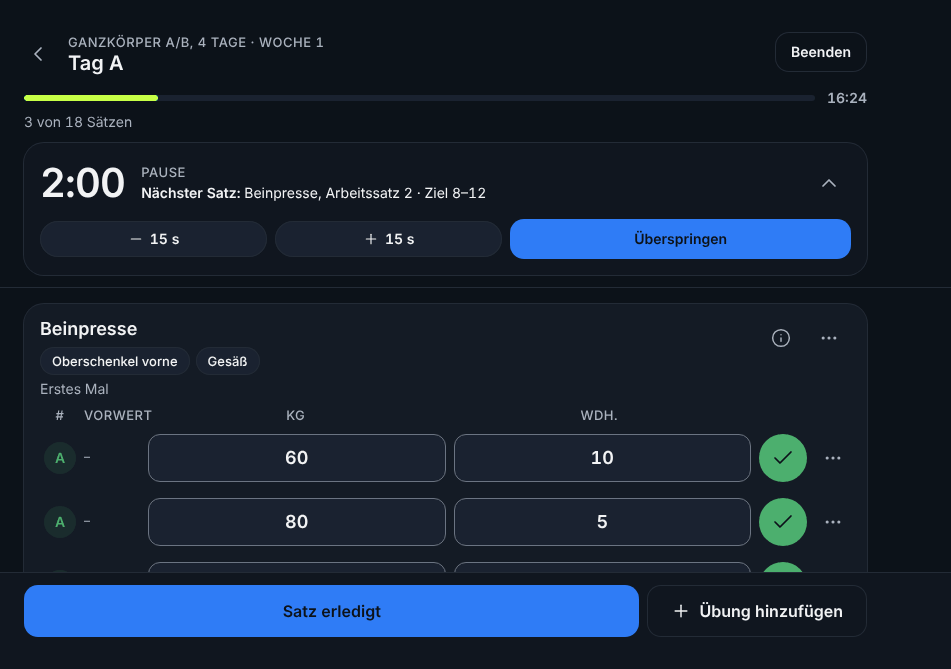
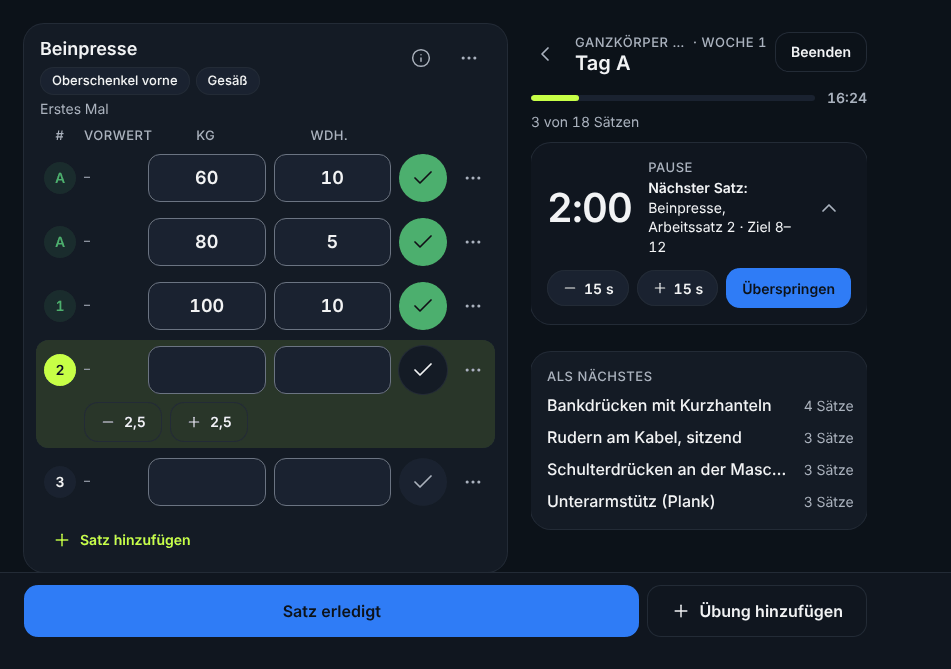
iPhone Duo: Abschluss Phase 2, Bilder, Gerätetest und Bericht (D-383)
Bilder in drei Breiten mit tools/duo-screens.mjs erneuert (84
Ansichten, Übersicht); Befunde wie nach Phase 1: Tageszahl im Kalender
10 px (bewusst, D-334), 7 Hinweise zu Wochentag-Chips, axe ohne
Verstöße. Beim Ansehen gefunden: In der rechten Spalte des Players
stand vom nächsten Satz nur „Beinpresse,…“; dort darf er jetzt bis zu
vier Zeilen haben.

Die Liste für den Gerätetest hat die Punkte 10 bis 15 dazu (Player
in beiden Zuständen, einzeilige Pause, Satzzeile, Ernährung,
Fortschritt). form-duo-report.md schließt mit dem Abschlussbericht
nach Kapitel 13 (Abschnitt 10). Nicht auf dem Gerät getestet.

Unit 1085 bestanden; E2E Chromium 371 bestanden, 0 rot; Startansicht
235,7 KB.

Claude-Session: https://claude.ai/code/session_012guqa2B3LtrhTwFQmUQwAZ

diff --git a/src/modules/training/ui/player/player-layout.css b/src/modules/training/ui/player/player-layout.css
@@ -82,6 +82,13 @@
     display: block;
     grid-area: next;
   }
+
+  /* In der schmalen Spalte stünde vom nächsten Satz neben der Zeit nur „Beinpresse,…“: Er darf
+     hier bis zu vier Zeilen haben, die Spalte hat die Höhe dafür. */
+  .player-side .rest-next-text {
+    -webkit-line-clamp: 4;
+    line-clamp: 4;
+  }
 }
 
 /*

diff --git a/form-duo-report.md b/form-duo-report.md
@@ -1,12 +1,14 @@
 # FORM · Bericht zur Phase iPhone Duo
 
-Stand: 25.10.2026 · Branch `form-duo`, Entwurfs-PR [darad11/fitness-app#52](https://github.com/darad11/fitness-app/pull/52) · Auftrag `docs/prompts/iphone-duo-FORM.md`, verbindliche Leitlinien `docs/prompts/iphone-duo-leitlinien-FORM.md` · Entscheidungen ab D-370
+Stand: 26.10.2026, Phase 2 abgeschlossen · Branch `form-duo`, Entwurfs-PR [darad11/fitness-app#52](https://github.com/darad11/fitness-app/pull/52) · Auftrag `docs/prompts/iphone-duo-FORM.md`, verbindliche Leitlinien `docs/prompts/iphone-duo-leitlinien-FORM.md` · Entscheidungen ab D-370
 
 Getestet wurde in Browser-Fenstern mit den Maßen des iPhone Duo (Chromium in dieser Umgebung, WebKit in GitHub Actions). Auf dem echten Gerät ist nichts getestet; was nur dort prüfbar ist, steht in der Liste für den Gerätetest.
 
 ## 1. Auftrag und Reihenfolge
 
 Phase 1: Gerätemaße recherchieren, alle Screens der Leitlinien (Kapitel 4) in drei Breiten prüfen, Fehler sofort beheben (Barcode-Scanner, Tab-Leiste, Verluste beim Auf- und Zuklappen, weitere Funde), Layout-Verbesserungen bewerten, dann stoppen. Phase 2 (Layouts) erst nach Freigabe. Vorher geprüft: CI-Lauf 40223344366 auf `main` (`dd27315`) mit allen vier Jobs grün (D-370).
+
+Phase 2, freigegeben am 26.10.2026: Workout-Player für beide Zustände, Ernährung aufgeklappt zweispaltig, Erklärung der Kalorien im Fortschritt (Abschnitt 9); danach die Bilder in drei Breiten erneuert, die Liste für deinen Gerätetest ergänzt (Abschnitt 6) und dieser Bericht abgeschlossen (Abschnitt 10, nach Kapitel 13 der Leitlinien). Die Tab-Leiste bleibt.
 
 ## 2. Gerät: Maße zugeklappt und aufgeklappt (D-371)
 
@@ -139,6 +141,8 @@ Gefunden bei der Prüfung aller Screens in drei Breiten (Bilder, Messungen und a
 | Einstellungen | `mehr`, `einstellungen` | in Ordnung |
 | Onboarding | `erster-start`, `anmeldung` | in Ordnung; „Später“ neben dem Systemrand (D-372) |
 
+Nach Phase 2: Player, Ernährung und Fortschritt sind umgestellt (Abschnitt 9); die Bilder in `docs/screens/duo/` zeigen den Stand nach Phase 2.
+
 ### 4.3 Ergebnis je Prüfpunkt (Kapitel 3 bis 9)
 
 - **Lesbarkeit:** Keine Schrift unter 11 px außer der Tageszahl im Kalender einer Tagesaufgabe: 10 px in einer 16-px-Markierung, so entschieden mit D-334; das Datum steht im Namen der Zelle. Wochentage jetzt 11 px (D-377), lange Werte im Training ganz lesbar (D-378).
@@ -155,6 +159,7 @@ Gefunden bei der Prüfung aller Screens in drei Breiten (Bilder, Messungen und a
 |---|---|---|
 | Erster Lauf, vor D-377 | 84 | 16 × axe `label-content-name-mismatch`, 27 × Schrift unter 11 px, 7 Hinweise Tippfläche; dazu aus den Bildern die Funde in Abschnitt 3.6 und 3.7 |
 | Nach D-377 und D-378 | 84 | 3 × Schrift unter 11 px (Tageszahl im Kalender, bewusst), 7 Hinweise Tippfläche (Wochentag-Chips, siehe 4.3); sonst nichts |
+| Nach Phase 2 (D-383) | 84 | wie nach D-378: 3 × Schrift unter 11 px (Tageszahl im Kalender, bewusst), 7 Hinweise Tippfläche; kein Überlauf, nichts unter dem Systemrand, keine Überlagerung, kein abgeschnittener Text, axe ohne Verstöße |
 
 ## 5. Bewertung der Layout-Verbesserungen (Kapitel 5, 7, 8 und 12)
 
@@ -195,19 +200,27 @@ Alles andere später oder gar nicht. Die schwebende Tab-Leiste bleibt; ob aufgek
 
 So würde ich es umsetzen (Kapitel 10): dieselben Komponenten, nur in CSS-Rastern angeordnet, an den vorhandenen Umbruchpunkten (48 rem). Nichts wird je nach Breite ein- oder ausgeblendet und neu aufgebaut; so bleibt beim Auf- und Zuklappen der Zustand erhalten. Player und Ernährung werden schon heute nachgeladen; die neuen Layouts kommen in diese Teile, die Startansicht bleibt bei 235,5 KB. Tests in den drei Breiten wie in Phase 1, Bilder neu.
 
+Umgesetzt in Phase 2 (Freigabe vom 26.10.2026: alle drei Pakete, ohne leeren Platzhalter für die Übungsdemonstration): Abschnitt 9.
+
 ## 6. Liste für deinen Gerätetest am iPhone Duo
 
-Am besten an der Vorschau des Branches (Vercel, Link im PR), als App vom Home-Bildschirm und einmal im Safari-Tab. Mit Testdaten, nicht mit echten Daten.
+Am besten an der Vorschau des Branches (Vercel, Link im PR: `fitness-app-git-form-duo-dr-b21f.vercel.app`), als App vom Home-Bildschirm und einmal im Safari-Tab. Mit Testdaten, nicht mit echten Daten. Punkte 10 bis 15 sind neu aus Phase 2.
 
 1. **Systemrand an der Seite (D-372):** Zugeklappt und aufgeklappt: Liegt etwas unter Statusleiste, Dynamic Island oder Kamera? Tab-Leiste, „Mehr“, der Kreis beim Scrollen, „Schließen“ in Blättern und im Scanner, Hinweise unten. Lässt sich „Mehr“ direkt neben dem Systemrand sicher tippen?
 2. **Tab-Leiste (D-373, D-376):** In beiden Zuständen runterscrollen (Kreis), hochscrollen (Leiste geht auf), die Linse über die Tabs ziehen, jeden Tab einmal tippen. Dann im Kreis-Zustand auf- und zuklappen und wieder hochscrollen: Steht die Auswahl unter dem aktiven Tab?
 3. **Auf- und Zuklappen im Training (D-375):** Training starten, einen Wert tippen, Satz erledigen (Pause läuft), Menü eines Satzes öffnen, dann auf- und zuklappen: Training, Wert, Satz, Menü und Pause bleiben, die Pause zählt richtig weiter. Lädt iOS die App beim Auf- oder Zuklappen neu? Wenn ja, bitte notieren.
 4. **Leseposition (D-375):** Auf „Heute“ und „Programme und Vorlagen“ in die Mitte scrollen, auf- und zuklappen: Bleibt derselbe Inhalt sichtbar?
 5. **Barcode-Scanner (D-374):** Zugeklappt und aufgeklappt, hoch und quer: Steht das Kamerabild aufrecht? Liegt der Rahmen mittig im Bild? Wird ein Code im Rahmen erkannt, einer außerhalb nicht?
-6. **Training zugeklappt (D-377, D-378):** Zeigen die Chips „− 15 s“ und „+ 15 s“ beide Zeichen? Steht „102,5“ ganz im Feld für kg?
+6. **Training zugeklappt (D-377, D-378):** Zeigen die Chips „− 15 s“ und „+ 15 s“ beide Zeichen (seit D-380 zugeklappt in der großen Pause)? Steht „102,5“ ganz im Feld für kg?
 7. **„Meine Küche“ aufgeklappt (D-377):** Ist das Menü ganz zu sehen, nichts unter der Tab-Leiste?
 8. **Halb aufgeklappt:** Was zeigt FORM, wenn das Gerät nur halb geöffnet ist (Falz)? Web-Apps erfahren davon nichts; bitte ein Foto, falls etwas über den Falz läuft.
 9. **Bildschirm im Training aktiv halten:** Bleibt der Bildschirm im Training an, auch nach dem Auf- und Zuklappen?
+10. **Player aufgeklappt (D-380, D-383):** Training starten, einen Satz erledigen, aufklappen: Stehen links die Sätze, rechts der Kopf mit Pause (±15 s) und darunter „Als Nächstes“? Ist der nächste Satz in der Pause ganz zu lesen? Ohne Pause: Steht rechts die Karte „Jetzt“? Bleibt die rechte Spalte beim Scrollen der Sätze stehen? Nach jedem „Satz erledigt“: Ist der nächste Satz links ganz zu sehen?
+11. **Auf- und Zuklappen mit gescrolltem Satz (D-380):** Aufgeklappt in der Satzliste nach unten scrollen, bis der aktuelle Satz oben steht, dann zuklappen: Steht der Satz unter dem Kopf, nicht dahinter? Wert, Pause und Menü bleiben wie in Punkt 3.
+12. **Pause zugeklappt (D-380):** Ist die Pause eine Zeile mit Zeit, nächstem Satz (zwei kurze Zeilen), Pfeil und „Überspringen“? Ist der nächste Satz lesbar? Öffnet der Pfeil die große Pause mit ±15 s? Einmal im Safari-Tab: Dort steht der nächste Satz nicht in der Zeile, weil sie schmaler ist; stört das?
+13. **Satzzeile in Safari zugeklappt und auf kleinen iPhones (D-380):** Steht der Vorwert in einer zweiten Zeile mit „Vorwert:“ davor? Passen „102,5“ und die Wiederholungen ganz ins Feld?
+14. **Ernährung aufgeklappt (D-381):** Links Ring, Makros und weitere Nährwerte, rechts die Mahlzeiten und das Wasser; Frühstück mit „Hinzufügen“ ohne Scrollen zu sehen? Weitere Nährwerte aufklappen, zuklappen: Bleiben sie offen, stehen die Mahlzeiten wieder unter dem Ring? „Meine Küche“ unten links antippen: Ist das Menü ganz zu sehen (bei wenig Platz öffnet es nach oben)?
+15. **Fortschritt (D-382):** Sind die vier Kacheln zugeklappt und aufgeklappt gleich hoch, stehen die Zahlen auf einer Linie, steht die Erklärung der Kalorien darunter?
 
 ## 7. Geänderte Dateien in Phase 1
 
@@ -226,13 +239,13 @@ Am besten an der Vorschau des Branches (Vercel, Link im PR), als App vom Home-Bi
 
 ## 9. Phase 2: Layouts (D-380 bis D-382)
 
-Freigegeben am 26.10.2026: alle drei Pakete wie empfohlen, ohne leeren Platzhalter für die Übungsdemonstration; die Tab-Leiste bleibt. Umgesetzt nach Kapitel 10 der Leitlinien: dieselben Komponenten, nur anders angeordnet, an der Breite des Inhalts (48 rem) statt an der Haltung des Geräts. Die neuen Anordnungen werden mit dem Player und der Ernährung nachgeladen; die Startansicht bleibt bei 235,6 KB. Beim Auf- und Zuklappen wird nichts neu aufgebaut.
+Freigegeben am 26.10.2026: alle drei Pakete wie empfohlen, ohne leeren Platzhalter für die Übungsdemonstration; die Tab-Leiste bleibt. Umgesetzt nach Kapitel 10 der Leitlinien: dieselben Komponenten, nur anders angeordnet, an der Breite des Inhalts (48 rem) statt an der Haltung des Geräts. Die neuen Anordnungen werden mit dem Player und der Ernährung nachgeladen; die Startansicht steht bei 235,7 KB (vorher 235,5 KB). Beim Auf- und Zuklappen wird nichts neu aufgebaut.
 
 ### 9.1 Workout-Player (D-380)
 
 | Zustand | Vorher (Messung D-379) | Jetzt |
 |---|---|---|
-| Aufgeklappt (Inhalt ab 48 rem breit: Duo aufgeklappt, iPad quer, Desktop) | eine Spalte; Kopf mit Pause 264 pt über der Liste, für Übung und Sätze 284 pt, eine Satzzeile ganz zu sehen, Felder 298 pt breit | zwei Spalten: links die Übungen mit den Sätzen, rechts mitlaufend der Kopf mit Trainingstag, Fortschritt und Pause (mit ±15 s), darunter „Jetzt“ mit dem nächsten Satz und „Als Nächstes“ mit bis zu vier folgenden Übungen und ihren offenen Sätzen. Für Übung und Sätze 572 pt, fünf Satzzeilen ganz zu sehen, Felder 118 pt |
+| Aufgeklappt (Inhalt ab 48 rem breit: Duo aufgeklappt, iPad quer, Desktop) | eine Spalte; Kopf mit Pause 264 pt über der Liste, für Übung und Sätze 284 pt, eine Satzzeile ganz zu sehen, Felder 298 pt breit | zwei Spalten: links die Übungen mit den Sätzen, rechts mitlaufend der Kopf mit Trainingstag, Fortschritt und Pause (mit ±15 s und dem nächsten Satz), ohne Pause darunter „Jetzt“ mit dem nächsten Satz, dann „Als Nächstes“ mit bis zu vier folgenden Übungen und ihren offenen Sätzen. Für Übung und Sätze 572 pt, fünf Satzzeilen ganz zu sehen, Felder 118 pt |
 | Zugeklappt (eine Spalte, Fenster unter 45 rem hoch: Duo zugeklappt, iPhone quer, iPhone hoch in Safari) | Pause als Karte mit ±15 s; Kopf 274 pt, für Übung und Sätze 269 pt, eine Satzzeile | Pause in einer Zeile: Zeit, nächster Satz in bis zu zwei Textzeilen, Taste für die große Pause, „Überspringen“; ±15 s in der großen Pause. Kopf 192 pt, für Übung und Sätze 351 pt, zwei Satzzeilen |
 | Zwischenmaß (669 × 951) und iPhone hoch | – | unverändert |
 | Satzzeile schmaler als 20 rem (Fenster unter 384 pt: Safari zugeklappt mit 382 pt, iPhone SE und mini) | bei 382 und 375 pt passte „102,5“ nur knapp, je nach Schriftart nicht ganz; bei 360 pt ragte es 7 px aus dem Feld, bei 320 pt waren die Felder 25 px breit | der Vorwert steht in einer zweiten Zeile unter den Feldern, mit sichtbarem Namen „Vorwert:“; die Felder sind bei 382 pt 83 px, bei 375 pt 80 px, bei 360 pt 72 px und bei 320 pt 52 px breit. Damit ist auch der offene Punkt zur Schriftart aus Abschnitt 3.7 erledigt |
@@ -246,6 +259,7 @@ Gemessen in Chromium mit laufendem Training und Pause, Seite ganz oben; in einer
 - **Unterwegs gefunden und behoben:** Aufgeklappt den aktuellen Satz nach oben gescrollt, dann zugeklappt: Der Kopf stand wieder über der Liste und verdeckte den Satz. Jetzt rückt der Satz nach jeder Größenänderung wieder ins Bild, wenn er vorher zu sehen war.
 - **Nachtrag nach der CI:** Die einzeilige Pause gilt bei jedem niedrigen Fenster, auch am iPhone hoch in Safari (das Testprofil iPhone 15 hat 393 × 659 pt). WebKit fand drei Tests, die das nicht berücksichtigten; sie tippen ±15 s jetzt in der großen Pause. Dabei zeigte sich: Wird der Kopf beim Wechsel zwischen zugeklappt und Zwischenmaß 72 pt höher oder niedriger, sprang der Satz bis zum nächsten Takt der Pause (bis 250 ms). Jetzt bleibt er schon im ersten Bild an seiner Stelle, auch wenn sich nur der sichere Bereich ändert.
 - **Tests:** `e2e/duo-player.spec.ts`, 3 Tests (Handy-Profil, Chromium und WebKit): zwei Spalten mit axe ohne Verstöße und der Satz nach jedem „Satz erledigt“ ganz sichtbar; einzeilige Pause; Satzzeile bei 390, 360 und 320 pt. Am alten Stand 3 von 3 fehlgeschlagen („Als Nächstes“ fehlt; Pause 142 px statt höchstens 80; Vorwert bei 360 pt in derselben Zeile). Gegenproben für den Satz hinter dem Kopf und für die zweite Textzeile der Pause: beide fehlgeschlagen ohne die Korrektur. Angepasst: `duo-resize.spec.ts` (aufgeklappt rückt der Satz um die Höhe des Kopfs nach oben und bleibt sichtbar) und der Test zu D-377 (±15 s bei 320 × 800, weil die Pause bei 320 × 640 einzeilig ist).
+- **Beim Abschluss (D-383):** In der rechten Spalte stand vom nächsten Satz neben der großen Zeit nur „Beinpresse,…“. Dort darf er jetzt bis zu vier Zeilen haben („Nächster Satz: Beinpresse, Arbeitssatz 2 · Ziel 8–12“).
 - **Nur am Gerät prüfbar:** wie sich die mitlaufende rechte Spalte beim Scrollen anfühlt; ob die einzeilige Pause zugeklappt gut lesbar ist.
 
 ### 9.2 Ernährung (D-381)
@@ -275,3 +289,70 @@ Gemessen in Chromium mit Tagesziel, zwei Schnelleinträgen und Wasser, Seite gan
 - **Texte:** Die Methode steht unverändert da („Schätzung nach MET: …“). Die beiden kurzen Hinweise stehen jetzt unter allen Kacheln und nennen deshalb „Kalorien“ im Satz: „Kalorien werden erst mit Körpergewicht geschätzt.“ und „1 Training ohne Kalorien-Schätzung (kein Körpergewicht).“ Gibt es Trainings ohne Schätzung, steht jetzt beides da, der Hinweis und die Methode.
 - **Kacheln:** Alle Reihen sind gleich hoch, das Label steht oben, die Zahl unten. So stehen die Zahlen auf einer Linie, auch wenn „Kalorien (Schätzung)“ zweizeilig umbricht. Die gemeinsame Kachel (`StatTile`) bleibt unverändert; die Klassen kommen von der Seite.
 - **Tests:** `e2e/duo-progress.spec.ts`, 1 Test (Handy-Profil, Chromium und WebKit): in den drei Breiten gleich hohe Kacheln, Zahlen auf einer Linie, Erklärung unter und nicht in den Kacheln; am alten Stand fehlgeschlagen (155 px Unterschied). Dazu `progress-ui.test.tsx`.
+
+## 10. Abschlussbericht nach Kapitel 13 der Leitlinien
+
+Getestet wurde in Browser-Fenstern mit den Maßen des iPhone Duo, nicht auf dem Gerät. Was nur dort prüfbar ist, steht in der Liste für deinen Gerätetest (Abschnitt 6).
+
+### 10.1 Analysierte Screens und Komponenten
+
+- **Screens:** alle aus Kapitel 4 der Leitlinien, 28 Ansichten in den drei Prüfmaßen (Abschnitt 4.2); dazu Safari zugeklappt (382 × 640), zugeklappt quer (594 × 368), iPhone SE (320 × 568), iPhone 15 in Safari (393 × 659) und für die Satzzeile 320 bis 430 pt.
+- **Komponenten:** schwebende Tab-Leiste mit Linse und Kreis, Blätter, Rückfragen, Hinweise, „Meine Küche“, Barcode-Scanner, Kopf, Pause und Satzzeile im Player, Ring und Makros der Ernährung, Kennzahl-Kacheln, Kalender und Diagramme, Leseposition beim Größenwechsel.
+
+### 10.2 Gefundene Layoutprobleme
+
+- **Fehler (behoben in Phase 1):** Bedienelemente unter dem Systemrand an der Seite (D-372); Tab-Leiste nach Größenänderung und Linse (D-373, D-376); Scanner erkannte außerhalb des Rahmens, quer lag das Bild außerhalb (D-374); Leseposition verrutschte beim Auf- und Zuklappen (D-375); Kopf im Training, Auswahl der Mahlzeit, „Meine Küche“, Namen für Screenreader, ±15 s, Wochentage (D-377); lange Werte in der Satzzeile (D-378).
+- **Fläche (behoben in Phase 2):** Im Player war aufgeklappt und zugeklappt nur eine Satzzeile ganz zu sehen; in der Ernährung begann die erste Mahlzeit aufgeklappt hinter der Tab-Leiste; im Fortschritt war die Kachel „Kalorien“ doppelt so hoch wie die anderen; bei 360 und 320 pt waren die Felder der Satzzeile zu schmal.
+- **Unterwegs in Phase 2 (behoben):** Satz nach Aufklappen, Scrollen und Zuklappen hinter dem Kopf; nächster Satz in der einzeiligen Pause nur als „Beinpress…“; Satz sprang beim Wechsel der Pause zwischen Zeile und Karte bis zum nächsten Takt; „Meine Küche“ aufgeklappt unter der Tab-Leiste, wenn die Seite darunter zu kurz war (D-380, D-381).
+
+### 10.3 Implementierte responsive Layouts: Verhalten schmal und breit
+
+| Screen | Zugeklappt (schmal, 466 × 678) | Zwischenmaß (669 × 951) | Aufgeklappt (breit, 951 × 669) |
+|---|---|---|---|
+| Workout-Player | eine Spalte; Pause in einer Zeile mit Zeit, nächstem Satz und „Überspringen“, ±15 s in der großen Pause | eine Spalte wie bisher, Pause als Karte mit ±15 s | zwei Spalten: links Übungen und Sätze, rechts mitlaufend Kopf mit Pause und nächstem Satz (ohne Pause: „Jetzt“) und „Als Nächstes“; Platz für die Übungsdemonstration im Raster vorbereitet |
+| Satzzeile | eine Zeile (als App; in Safari mit 382 pt zweite Zeile für den Vorwert) | eine Zeile | eine Zeile |
+| Ernährung | eine Spalte wie bisher | eine Spalte wie bisher | zwei Spalten: links Ring, Makros, weitere Nährwerte, „Ziel“ und „Meine Küche“; rechts Mahlzeiten und Wasser |
+| Fortschritt | vier gleich hohe Kacheln (2 × 2), Erklärung der Kalorien darunter | wie zugeklappt | vier Kacheln nebeneinander, Erklärung darunter |
+| Alle übrigen Screens | unverändert (Bewertung „später“ oder „unnötig“, Abschnitt 5) | | |
+| Navigation | schwebende Tab-Leiste, neben dem Systemrand | Tab-Leiste | Tab-Leiste (unverändert, nach deiner Vorgabe) |
+
+Umbruchpunkte: zwei Spalten ab 48 rem Breite des Inhalts (Container-Abfragen, so zählt der Systemrand mit); einzeilige Pause bei Fenstern unter 45 rem Höhe; zweite Zeile der Satzzeile unter 20 rem Zeilenbreite; nächster Satz in der Pause erst ab 22 rem Breite des Players. Beim Auf- und Zuklappen wird nichts neu aufgebaut: Werte, Menüs, Dialoge, Pause und die Lage des aktuellen Satzes bleiben.
+
+### 10.4 Tatsächlich ausgeführte Tests
+
+- **Unit-Tests:** `pnpm test` nach jedem Paket 124 Dateien, 1085 Tests bestanden.
+- **E2E in Chromium, alle Dateien (diese Umgebung):** Paket 1: 368 bestanden, 82 übersprungen, 0 fehlgeschlagen (zweimal); Nachtrag zu D-380 und Paket 2: 370, 84, 0; Paket 3: 371, 85, 0; Abschluss: 371, 85, 0.
+- **Im Fenster des iPhone 15 (393 × 659, in Chromium nachgestellt):** ganze Suite 204 bestanden, 22 übersprungen, 1 fehlgeschlagen; der eine Test wählt Handy oder Desktop nach dem Namen des Projekts, mit passendem Namen bestanden.
+- **CI in GitHub Actions (Chromium und WebKit):** Paket 1 (Lauf 40283966090) in WebKit 3 fehlgeschlagen: die einzeilige Pause im Profil iPhone 15 und eine Prüfung, die vom Scrollen abhing; behoben im Nachtrag zu D-380. Danach grün: Lauf 40292622372 (Paket 2, WebKit 350 bestanden) und Lauf 40295195644 (Paket 3, Chromium 371, WebKit 351 bestanden). Die CI zum Abschluss-Commit steht im PR.
+- **Neue Tests in Phase 2:** `e2e/duo-player.spec.ts` (3), `duo-nutrition.spec.ts` (2), `duo-progress.spec.ts` (1); angepasst `duo-resize`, `duo-funde`, `session`, `resilience` und `progress-ui.test.tsx`. Jede neue Prüfung schlug am alten Stand fehl (Gegenproben in `docs/testing.md`).
+- **Wiederholungen gegen Wackeln:** `duo-player` und `duo-resize` je fünfmal: 30 von 30 bestanden; `duo-nutrition`, `duo-funde` und `nutrition` je viermal: 60 von 60.
+- **Prüfung aller Screens:** `tools/duo-screens.mjs`, 84 Ansichten in drei Breiten, Befunde wie nach Phase 1 (Abschnitt 4.4), axe ohne Verstöße.
+- **Startansicht:** 235,7 KB von 250 KB (vor Phase 2: 235,5 KB). Die neuen Anordnungen werden mit Player und Ernährung nachgeladen.
+- **Nicht getestet:** auf dem echten iPhone Duo. Dafür die Liste in Abschnitt 6.
+
+### 10.5 Behobene Probleme
+
+Abschnitt 3 (Phase 1, D-372 bis D-378) und Abschnitt 9 (Phase 2, D-380 bis D-382). Jeder behobene Fehler hat einen Test, der am alten Stand fehlschlägt; die Gegenproben stehen bei den Abschnitten und in `docs/testing.md`.
+
+### 10.6 Geänderte Dateien in Phase 2
+
+- **App:** neu `src/modules/training/ui/player/player-layout.css` und `src/modules/nutrition/ui/nutrition-layout.css`; geändert im Player `SessionPage.tsx`, `RestStage.tsx`, `SetRow.tsx`, `useStableSetView.ts`; in der Ernährung `NutritionPage.tsx`, `KitchenMenu.tsx`; im Fortschritt `ProgressPage.tsx`; Texte in `de-session.ts` und `de-training-pages.ts`.
+- **Tests:** neu `e2e/duo-player.spec.ts`, `duo-nutrition.spec.ts`, `duo-progress.spec.ts`; angepasst `duo-resize`, `duo-funde`, `session`, `resilience`, `src/modules/progress/ui/progress-ui.test.tsx`.
+- **Bilder:** `docs/screens/duo/` mit Übersicht und Befunden.
+- **Dokumente:** `docs/decisions.md` (D-380 bis D-383), `docs/testing.md`, `docs/implementation-plan.md`, `docs/feature-inventory.md` mit CSV, `docs/known-limitations.md`, dieser Bericht.
+
+### 10.7 Bestehende Einschränkungen
+
+- Nicht auf dem echten Gerät getestet; die Prüfmaße stammen teils von Dritten, der Systemrand von 84 pt ist eine Annahme (Abschnitt 2).
+- Den sicheren Bereich und die Kamera stellt nur Chromium nach; WebKit prüft dieselben Abläufe ohne Systemrand.
+- Ob das Duo auf-, zu- oder halb aufgeklappt ist, erfährt eine Web-App nicht; FORM richtet sich nach der Fenstergröße. Was über den Falz läuft, ist nicht geprüft.
+- Ob iOS die App beim Auf- und Zuklappen neu lädt, ist offen.
+- Einzeilige Pause: ±15 s sind einen Tipp weiter; in Safari zugeklappt und am iPhone SE oder mini steht der nächste Satz nicht in der Zeile (`docs/known-limitations.md`).
+- Aufgeklappt liegt die schwebende Tab-Leiste über rund 80 pt Inhalt; die Navigation bleibt nach deiner Vorgabe.
+- Tageszahl im Kalender einer Tagesaufgabe 10 px (bewusst, D-334).
+
+### 10.8 Empfohlene Verbesserungen
+
+- **Übungsdemonstration:** Sobald es Bilder oder Videos gibt, in den vorbereiteten Bereich „demo“ der rechten Spalte im Player; zugeklappt über die Karte „Jetzt“ oder die große Pause.
+- **Nach deinem Gerätetest:** ob aufgeklappt eine Seitenleiste statt der Tab-Leiste besser ist (Abschnitt 5).
+- **Später (Abschnitt 5):** Fortschritt aufgeklappt mit Körpergewicht und Bestleistungen neben den Kennzahlen; Programme als Liste mit Details; Programm-Details und Tagesaufgaben zweispaltig; größere Kalenderzellen aufgeklappt.

diff --git a/docs/implementation-plan.md b/docs/implementation-plan.md
@@ -280,4 +280,4 @@ Nächste Schritte: <Liste>
 66. Abgeschlossen, Merge nach Freigabe vom 24.10.2026 (Branch `form-stabilitaet`, PR #50, Auftrag `prompts/stabilitaet-FORM.md`): Phase Stabilität. Abschnitt 1 erledigt: zuverlässiger Start nach Updates und ohne Netz, Ursache des Offline-Tests, Startwächter, einmal neu laden, Update-Strategie (E-16, D-343); Nachtrag nach der CI: drei Befunde in WebKit behoben. Abschnitt 2 erledigt: Ursachen der wackelnden Tests behoben (Linse, Wasser-Schalter, Seitenende), E2E-Jobs im Image von Playwright, Wiederholung auf Abruf (D-344); Nachträge nach der Wiederholung in der CI: Seitenende auf `/ernaehrung` behoben; Startwächter in WebKit behoben (index.html lädt keine Module mehr vor). Abschnitt 3 erledigt: Wiederherstellen aus dem Export mit Prüfung, Zusammenfassung, doppelter Bestätigung, Sicherung vorher und Regeln für die Synchronisierung (A-14, D-345); Zusammenführen (AK-DAT-03) bleibt offen. Abschnitt 4 erledigt: weitere P2-Befunde nach Priorität und B-07 (D-346); offen mit Grund A-03 Rest, A-06, C-04 Rest, E-03 Rest, B-02 nach D-297. Abschnitt 5 erledigt: Startansicht 234,3 KB statt 239,5 KB durch getrennte Textkataloge (D-347). Abschnitt 6 erledigt: alle Prüfungen, vorübergehende Gegenprobe entfernt, Unterlagen nachgezogen (D-348); jeder früher wackelnde Test bestand in der CI 20-mal in Chromium und WebKit. Nachtrag nach Freigabe (24.10.2026): A-05 erledigt, Sperre je Konto in `push_documents` auf dem Server, SQL des Servers in `supabase/migrations/`, Test `pnpm test:db` und CI-Job „Datenbank“ (D-349); neu gefunden A-15 (Rechte). Nachtrag 2 nach Freigabe (24.10.2026): A-15 erledigt, `authenticated` nur SELECT, INSERT, UPDATE und USAGE an der Sequenz, `anon` ohne Rechte an der Sequenz (D-350). Dazu der wackelnde Test `switches.spec.ts:340` behoben: Er wartet nach dem ersten Gewicht, bis `/fortschritt/gewicht` neu gezeichnet ist (D-351). Bericht: `form-stabilitaet-report.md`, offene Punkte mit Grund in Abschnitt 7, A-05 in Abschnitt 8, A-15 in Abschnitt 9, Testfix in Abschnitt 10. Gerätetests am 24.10.2026 bestanden: Update (T-IPH-M0 Schritt 4) und Wiederherstellen (Abschnitt 11). Sicherungsdateien heißen `form-sicherung-…`, alte Namen lassen sich weiter wiederherstellen (D-352, Abschnitt 12).
 67. Abgeschlossen, Merge nach Freigabe vom 25.10.2026 (Branch `form-ernaehrung`, PR #51, normaler Merge `dd27315`, D-353): Phase Ernährung nach dem Gesamtauftrag vom 24.10.2026 (`prompts/ernaehrung-FORM.md`; er ersetzt den ersten Auftrag, der in `444d7f1` steht). Abschnitt 0 erledigt: Stand geprüft, lokal angefangener Einbau (BLS per Filter, USDA-Stückgewichte) zurückgenommen, Ursachenanalyse und BLS-Rohdaten behalten (D-355). Abschnitt 1 erledigt: Ursache der fehlenden Treffer belegt (D-354), Suche für jede Datenquelle mit Umlautschreibweisen, Einzahl/Mehrzahl, Synonymen in beide Richtungen, Rang nach Stellung im Namen, lose vor Marke und ohne Dubletten (D-356); Nachtrag: ganzes Wort vor Grundwort, drei Scheintreffer weniger (D-357). Abschnitt 2 erledigt: Auswahlliste `docs/lebensmittel-auswahl.csv` mit 345 Grundnahrungsmitteln aus dem BLS 4.0 und 9 fehlenden, EU-Rechenregeln geprüft, Lizenzen in `docs/licenses-data.md`, wartet auf Freigabe (D-358). Abschnitt 3 erledigt: Salz, Zucker, gesättigte Fettsäuren und Ballaststoffe als Ist und Tagesreferenz mit Quelle, fehlende Angaben nicht als 0 (D-359, Punkt 58). Abschnitt 4 erledigt: Wischen nach links löscht einen Artikel der Einkaufsliste mit Rückgängig (D-360, Punkt 64). Liste am 25.10.2026 freigegeben und nach den Entscheidungen 1 bis 8 ergänzt: 366 Zeilen, 13 neue Einträge, drei USDA-Lücken, Regel für abgeleitete 0-g-Werte, Spalten Einheit, Hinweis und abgeleitete Werte (D-361). Abschnitt 6 erledigt: Grundauswahl mit 361 Lebensmitteln nachgeladen und offline, Suche schon beim Tippen, Menge in g oder Stück, Stückgewicht einmal angeben und gemerkt, Quelle je Eintrag, Lizenzliste unter „Über die App“ (D-362, Punkt 59). Abschluss nach `prompts/ernaehrung-abschluss-FORM.md` (25.10.2026; ersetzt alle offenen Ernährungs-Anweisungen): §1 erledigt, „Weitere Nährwerte“ kompakt als „Ist / Referenz g“ mit Info-Blatt (D-363). §2 erledigt: Nährwerttabelle im Lebensmittel-Blatt einzeilig in festen Spalten, zweite Spalte nur bei einer Menge ungleich 100 g (D-364). §3 erledigt: 47 Richtwerte je Stück aus europäischen Quellen, „1 Stück · ca. … g“ vorgewählt, Plus und Minus in halben Stück, „Gewicht anpassen“ gemerkt und zurücksetzbar, ohne Richtwert nur Gramm; die einmalige Frage entfällt (D-365). §4 erledigt: Ohne eigenen Wortlaut bleibt die Zitierweise des BLS mit DOI, die Quellenzeile bricht nicht mehr zwischen Zahl und Prozentzeichen um (D-366). §5 erledigt: Nachweise je Prüfpunkt, fünf Bilder, Übersicht und Zip neu (D-367). Richtwerte am 25.10.2026 freigegeben, Avocado auf 145 g (DTU, Sorte Hass); Medjool-Datteln ohne europäische Quelle nicht aufgenommen (D-368). Referenz für Zucker und gesättigte Fettsäuren aus 10 % der Kalorien des Tagesziels, ohne Ziel 50 und 22 g, mit Erklärung im Info-Blatt (D-369). Wartet auf Freigabe und Merge. Bericht: `form-ernaehrung-report.md`.
 68. Später, eigene Sitzung (Wunsch des Produktinhabers vom 25.10.2026, D-369): freien Zucker näherungsweise über die Lebensmittelgruppen schätzen (Zucker, Honig, Süßes, Säfte) und die Zucker-Referenz (10 % der Kalorien aus dem Tagesziel) nur darauf beziehen. Bis dahin zählt die App jeden Zucker, auch aus Obst und Milch, und nennt den Wert im Info-Blatt eine strenge Orientierung.
-69. In Arbeit, Phase 2 (Branch `form-duo`, Entwurfs-PR #52, D-370): Phase iPhone Duo nach dem Auftrag vom 25.10.2026 (`prompts/iphone-duo-FORM.md`; verbindliche Leitlinien `prompts/iphone-duo-leitlinien-FORM.md`, sie ersetzen Kapitel 12 aus `prompts/audit-FORM.md`). Phase 1: Gerätemaße recherchieren, alle Screens der Leitlinien in drei Breiten prüfen (mit Übersichtsbild), Fehler beheben (Barcode-Scanner, Tab-Leiste, Verluste beim Auf- und Zuklappen, weitere Funde), Layout-Verbesserungen bewerten, dann stoppen. Phase 2 (freigegebene Layouts, nachgeladen, Startansicht unter 250 KB) erst nach Freigabe des Produktinhabers. Punkt 1 erledigt: Gerätemaße recherchiert, Prüfmaße als Annahmen in `e2e/duo.ts` (D-371). Fehler behoben: feste Elemente (Tab-Leiste, Blätter, Rückfragen, Hinweise) unter dem Systemrand an der Seite (D-372). Tab-Leiste misst nach jeder Größenänderung neu: Auswahl nach Auf- und Zuklappen im Kreis, Linse nach Tipp beim Aufgehen (D-373, Audit E-15). Barcode-Scanner: Erkennung nur im sichtbaren Ausschnitt um den Rahmen, Kamerabild auch quer ganz sichtbar (D-374). Auf- und Zuklappen: im Training bleibt alles erhalten (Test), Leseposition auf allen Seiten (D-375); Linse endet beim Loslassen außerhalb der Leiste (D-376). Weitere Funde: Kopf im Training neben dem Systemrand, Mahlzeit-Auswahl aufgeklappt hoch, „Meine Küche“ unter der Tab-Leiste, Namen der Zeilen nach WCAG 2.5.3 (Audit D-08), Minus und Plus der Pause auch schmal sichtbar, Wochentage 11 px (D-377). Satzzeile: „102,5“ passt zugeklappt und auf 375 bis 390 pt ins Feld (D-378). Punkte 2 und 4 erledigt: alle Screens in drei Breiten geprüft, Bilder und Übersicht in `docs/screens/duo/`, Bewertung mit Empfehlung (Player und Ernährung aufgeklappt zweispaltig, kompakte Pause zugeklappt, Satzzeile sehr schmal, Erklärung der Kalorien), Liste für den Gerätetest (D-379). Phase 1 abgeschlossen. Phase 2 freigegeben am 26.10.2026 (alle drei Pakete wie empfohlen, ohne leeren Platzhalter für die Demonstration): Player aufgeklappt zweispaltig, zugeklappt einzeilige Pause, Satzzeile mit zweiter Zeile (D-380). Ernährung aufgeklappt zweispaltig: links Ring, Makros und weitere Nährwerte, rechts Mahlzeiten und Wasser (D-381). Fortschritt: Erklärung der Kalorien-Schätzung unter den Kacheln, Kacheln gleich hoch (D-382).
+69. Phase 2 abgeschlossen, wartet auf deinen Gerätetest und die Freigabe (Branch `form-duo`, Entwurfs-PR #52, D-370): Phase iPhone Duo nach dem Auftrag vom 25.10.2026 (`prompts/iphone-duo-FORM.md`; verbindliche Leitlinien `prompts/iphone-duo-leitlinien-FORM.md`, sie ersetzen Kapitel 12 aus `prompts/audit-FORM.md`). Phase 1: Gerätemaße recherchieren, alle Screens der Leitlinien in drei Breiten prüfen (mit Übersichtsbild), Fehler beheben (Barcode-Scanner, Tab-Leiste, Verluste beim Auf- und Zuklappen, weitere Funde), Layout-Verbesserungen bewerten, dann stoppen. Phase 2 (freigegebene Layouts, nachgeladen, Startansicht unter 250 KB) erst nach Freigabe des Produktinhabers. Punkt 1 erledigt: Gerätemaße recherchiert, Prüfmaße als Annahmen in `e2e/duo.ts` (D-371). Fehler behoben: feste Elemente (Tab-Leiste, Blätter, Rückfragen, Hinweise) unter dem Systemrand an der Seite (D-372). Tab-Leiste misst nach jeder Größenänderung neu: Auswahl nach Auf- und Zuklappen im Kreis, Linse nach Tipp beim Aufgehen (D-373, Audit E-15). Barcode-Scanner: Erkennung nur im sichtbaren Ausschnitt um den Rahmen, Kamerabild auch quer ganz sichtbar (D-374). Auf- und Zuklappen: im Training bleibt alles erhalten (Test), Leseposition auf allen Seiten (D-375); Linse endet beim Loslassen außerhalb der Leiste (D-376). Weitere Funde: Kopf im Training neben dem Systemrand, Mahlzeit-Auswahl aufgeklappt hoch, „Meine Küche“ unter der Tab-Leiste, Namen der Zeilen nach WCAG 2.5.3 (Audit D-08), Minus und Plus der Pause auch schmal sichtbar, Wochentage 11 px (D-377). Satzzeile: „102,5“ passt zugeklappt und auf 375 bis 390 pt ins Feld (D-378). Punkte 2 und 4 erledigt: alle Screens in drei Breiten geprüft, Bilder und Übersicht in `docs/screens/duo/`, Bewertung mit Empfehlung (Player und Ernährung aufgeklappt zweispaltig, kompakte Pause zugeklappt, Satzzeile sehr schmal, Erklärung der Kalorien), Liste für den Gerätetest (D-379). Phase 1 abgeschlossen. Phase 2 freigegeben am 26.10.2026 (alle drei Pakete wie empfohlen, ohne leeren Platzhalter für die Demonstration): Player aufgeklappt zweispaltig, zugeklappt einzeilige Pause, Satzzeile mit zweiter Zeile (D-380). Ernährung aufgeklappt zweispaltig: links Ring, Makros und weitere Nährwerte, rechts Mahlzeiten und Wasser (D-381). Fortschritt: Erklärung der Kalorien-Schätzung unter den Kacheln, Kacheln gleich hoch (D-382). Abschluss: Bilder in drei Breiten erneuert, Liste für den Gerätetest ergänzt, Abschlussbericht nach Kapitel 13 in `form-duo-report.md` Abschnitt 10 (D-383). Gemergt wird nach dem Gerätetest und der Freigabe des Produktinhabers.

diff --git a/docs/decisions.md b/docs/decisions.md
@@ -265,6 +265,7 @@ Stand: 18.10.2026 · Version 0.5 (M1 in Arbeit) · Vorgängerversion: `archive/v
 | D-380 | Workout-Player für beide Zustände (Phase iPhone Duo, Phase 2 Paket 1; Leitlinien Kapitel 6 und 10): **Aufgeklappt**, ab 48 rem Breite des Players (gemessen am Inhalt, nicht am Fenster, weil beim Duo der Systemrand Platz wegnimmt), zwei Spalten: links die Übungen mit den Sätzen, rechts mitlaufend die Steuerung mit Kopf (Trainingstag, „Beenden“, Fortschritt, Pause), darunter der nächste Satz (Karte „Jetzt“) und neu „Als Nächstes“ mit den folgenden Übungen und ihren offenen Sätzen (höchstens vier, danach „und n weitere Übungen“). Für die Übungsdemonstration ist im Raster der Steuerung der Bereich „demo“ vorbereitet; ohne Bilder hat er keinen Inhalt und keine Höhe, es gibt keinen Platzhalter. **Zugeklappt**, in einer Spalte bei niedrigem Fenster (unter 45 rem Höhe): Pause in einer Zeile mit Zeit, nächstem Satz (bis zu zwei Textzeilen, so hoch wie die Knöpfe daneben) und „Überspringen“, ±15 s in der großen Pause; „Pause“ und „Nächster Satz“ bleiben für Screenreader, unter 22 rem Breite des Players (Safari zugeklappt, iPhone SE und mini) auch der nächste Satz selbst, weil sonst nur ein Wortrest bliebe. **Satzzeile** unter 20 rem Zeilenbreite (Fenster unter 384 pt: Safari zugeklappt mit 382 pt, iPhone SE und mini): Vorwert in einer zweiten Zeile unter den Feldern, mit sichtbarem Namen „Vorwert:“; ohne Vorwert entfällt die Zeile, der Spaltenkopf „Vorwert“ entfällt. **Umsetzung:** nur Anordnung in `player-layout.css`, nachgeladen mit dem Player und nicht in der Startansicht; Container-Abfragen auf den Rahmen des Players. Kopf, Pause und Sätze bleiben dieselben Elemente, beim Auf- und Zuklappen geht nichts verloren. `useStableSetView` zählt den Kopf nur, wenn er über der Liste steht, und zeigt den aktiven Satz nach einem Größenwechsel wieder, wenn er vorher zu sehen war und danach hinter Kopf oder Fußleiste läge (sonst rutschte er nach Auf- und Zuklappen hinter den Kopf). **Tests:** `e2e/duo-player.spec.ts` (3 Tests); angepasst: `duo-resize.spec.ts` (aufgeklappt rückt der Satz nach oben und bleibt sichtbar) und der Test zu D-377 (bei 320 × 640 ist die Pause einzeilig, geprüft wird jetzt bei 320 × 800). **Nachtrag (26.10.2026, nach der CI):** Die einzeilige Pause gilt bei jedem Fenster unter 45 rem Höhe, also auch am iPhone in Safari (Testprofil iPhone 15: 393 × 659); ±15 s stehen dort in der großen Pause. In WebKit schlugen deshalb `session.spec.ts` und `resilience.spec.ts` fehl (sie tippten ±15 s in der kleinen Pause), dazu im eigenen Test die Prüfung „Kopf über der Liste“, die von der Scrollposition abhing. Außerdem glich beim Wechsel zwischen zugeklappt und Zwischenmaß erst der nächste Takt der Pause aus, dass der Kopf 72 px höher oder niedriger wird; der Satz sprang bis dahin, und der Test zu D-375 war wackelig (2 von 6 Wiederholungen rot). Jetzt bleibt der aktive Satz im ersten Bild nach der Größenänderung an seiner Stelle im Fenster (gemessen am Fenster, also auch nach der Scroll-Verankerung des Browsers oder dem Ausgleich der Leseposition), ebenso wenn der Kopf ohne neue Darstellung seine Höhe ändert (ResizeObserver auf die Außenkante, z. B. sicherer Bereich). „Zu sehen“ heißt: Oberkante zwischen Kopf und Fußleiste; ein Satz mit offenem Menü darf unten in die Fußleiste reichen | Entschieden am 26.10.2026 (Freigabe des Produktinhabers; geändert: kein leerer Platzhalter für die Demonstration) | Aufgeklappt und zugeklappt war ohne Scrollen nur eine Satzzeile ganz zu sehen (D-379); Kapitel 6 verlangt Sekundäres ausklappbar und Platz für die Demonstration |
 | D-381 | Ernährung aufgeklappt zweispaltig (Phase iPhone Duo, Phase 2 Paket 2; Leitlinien Kapitel 5 und 10): ab 48 rem Breite des Inhalts (Duo aufgeklappt, iPad hoch und quer, Desktop) zwei gleich breite Spalten: links der Ring mit Makros, Hinweisen und weiteren Nährwerten, darunter „Ziel“ und „Meine Küche“; rechts die vier Mahlzeiten und das Wasser. Überschrift und Tagesauswahl stehen über beiden Spalten. Schmaler eine Spalte wie bisher. **Umsetzung:** nur Anordnung in `nutrition-layout.css`, nachgeladen mit der Seite und nicht in der Startansicht; Container-Abfrage auf die Breite des Inhalts. Die Reihenfolge im Dokument bleibt (Ring, Knöpfe, Mahlzeiten, Wasser), also auch für Screenreader und Tastatur; Mahlzeiten und Wasser stehen dafür in einem gemeinsamen Rahmen. Die linke Spalte klebt nicht: Mit offenen weiteren Nährwerten wäre sie höher als das Fenster. Blätter und Dialoge liegen in der obersten Ebene und hängen nicht vom Rahmen ab. **„Meine Küche“** steht aufgeklappt unten in der linken Spalte: Reicht die Seite unter dem Knopf nicht, um das Menü über die Tab-Leiste zu scrollen (etwa an einem leeren Tag mit offenen weiteren Nährwerten oder bevor das Wasser geladen ist), öffnet es nach oben (`KitchenMenu`, gemessen beim Öffnen). **Tests:** `e2e/duo-nutrition.spec.ts` (2 Tests) | Entschieden am 26.10.2026 (Freigabe des Produktinhabers) | Aufgeklappt begann die erste Mahlzeit bei 619 von 669 pt, hinter der Tab-Leiste; zu sehen war nur der Ring (D-379) |
 | D-382 | Fortschritt: Erklärung der Kalorien-Schätzung unter den Kacheln (Phase iPhone Duo, Phase 2 Paket 3; gilt in allen Breiten): Die Erklärung steht als Hinweis unter den vier Kacheln statt in der Kachel „Kalorien (Schätzung)“: mit Schätzung die Methode („Schätzung nach MET: …“), davor bei Trainings ohne Körpergewicht „n Trainings ohne Kalorien-Schätzung (kein Körpergewicht).“; ganz ohne Schätzung „Kalorien werden erst mit Körpergewicht geschätzt.“ Die beiden kurzen Hinweise nennen dafür jetzt „Kalorien“ im Satz. Die Reihen des Rasters sind gleich hoch (`auto-rows-fr`), jede Kachel ist ein Raster mit dem Label oben und der Zahl unten; so stehen die Zahlen einer Reihe auf einer Linie, auch wenn „Kalorien (Schätzung)“ zweizeilig umbricht. `StatTile` bleibt unverändert, die Klassen kommen von der Seite. **Tests:** `e2e/duo-progress.spec.ts`; `progress-ui.test.tsx` | Entschieden am 26.10.2026 (Freigabe des Produktinhabers) | Die Kachel „Kalorien“ war durch die Erklärung rund doppelt so hoch wie die anderen, auch zugeklappt (D-379) |
+| D-383 | Abschluss der Phase iPhone Duo, Phase 2 (Auftrag: Bilder in drei Breiten erneuern, Liste für den Gerätetest ergänzen, Bericht): `tools/duo-screens.mjs` neu ausgeführt, 84 Ansichten, Übersicht `docs/screens/duo/uebersicht-duo.png`; Befunde wie nach D-378 (Tageszahl im Kalender 10 px, bewusst nach D-334, und 7 Hinweise zu Wochentag-Chips), axe ohne Verstöße. Beim Ansehen der Bilder gefunden: In der rechten Spalte des Players stand vom nächsten Satz neben der großen Zeit nur „Beinpresse,…“; dort darf er jetzt bis zu vier Zeilen haben (`player-layout.css`). Die Liste für den Gerätetest (Bericht Abschnitt 6) hat die Punkte 10 bis 15 dazu; der Bericht schließt mit dem Abschlussbericht nach Kapitel 13 der Leitlinien (Abschnitt 10). Nicht auf dem Gerät getestet | Entschieden am 26.10.2026 | Auftrag der Phase 2 |
 | D-247 | Premium-Player (AP D2, ersetzt AP 1.5): Bühne „Jetzt“ mit Übung, Satz x von n, Ziel, Vorwert und nächster Übung; Pause als Bühne im klebenden Kopf mit Restzeit, nächstem Satz, ±15 s und Überspringen, Vollansicht als Portal; Ton nur, wenn das Pausenende während der Anzeige erreicht wird (letzter Stand höchstens 1 s davor), nie nachträglich; Wake Lock während der Einheit mit Statusspeicher für die Einstellungen; „Beenden“ im Kopf, „Übung entfernen“ als Symbol | Entschieden in AP D2 | Der Master-Prompt verlangt, dass Programm, Übung, Satz, Vorwert, Pause, Fortschritt und nächste Aktion auf einen Blick sichtbar sind. Die Pause im Kopf bleibt beim Scrollen sichtbar, ohne eine zweite Leiste unten zu stapeln. Ein nachträglicher Ton nach der Rückkehr aus dem Hintergrund wäre irreführend (D-215). Das Portal ist nötig, weil der Weichzeichner der Kopfzeile sonst den Bezugsrahmen für `fixed` bildet |
 | D-245 | Trainingsplayer (AP 1.4): Vollbild über eine Markierung der Route (`handle.fullscreen`), dann ohne Tab-Leiste und Seitenleiste. Jede Übung hat eine Kopfzeile mit Satz, Vorwert und Einheiten. Die ±-Tasten für das Gewicht erscheinen am hervorgehobenen Satz; Überspringen und Entfernen liegen hinter „Weitere Aktionen" je Satz. Cardio wird in Minuten erfasst. Dialoge nutzen das native `<dialog>`; der abgedunkelte Hintergrund kommt aus dem neuen Token `--scrim`. Nach dem Verwerfen zeigt die Seite Training 10 s lang „Rückgängig". Übungsauswahl und Suche werden erst bei Bedarf geladen | Entschieden in M1 | Auf dem iPhone ist die Zeile schmal: Kopfzeile statt Beschriftung je Feld, Zusatzaktionen nur bei Bedarf. `<dialog>` bringt Fokusfalle und Escape ohne zusätzliche Abhängigkeit (D-203); Safari unterstützt es seit 15.4, unser Mindestziel ist 18.4 (D-228) |
 

diff --git a/docs/feature-inventory.md b/docs/feature-inventory.md
@@ -11,7 +11,7 @@ Quelle der Wahrheit ist diese Datei. `feature-inventory.csv` wird daraus mit `py
 - MVP-Zeilen verweisen in den Akzeptanzkriterien auf die AK-IDs in `requirements.md` Abschnitt 6.
 - Alle 138 Zeilen aus Version 0.1 bleiben mit ihrer ID erhalten. 27 neue Zeilen: ON-18, TP-21 bis TP-26, TS-23 bis TS-27, NU-21 bis NU-25, SY-11 bis SY-20.
 - Version 0.14 (Rebranding FORM, Paket F4, 22.10.2026): TH-04 (Streaks) „Ausgeschlossen“ und „Verworfen“: keine Serien-Zähler nach den Markenleitplanken (D-318); die Serie in der Auswertung der Tagesaufgaben (D-284) entfällt, dort steht jetzt „Diese Woche x von y“ (AK-HAB-03).
-- Version 0.37 (Phase iPhone Duo, Phase 2, 26.10.2026): TS-02 (Übungsliste) aufgeklappt zweispaltig mit der Steuerung rechts und neu „Als Nächstes“; TS-07 und TS-09 (Pause mit nächstem Satz) zugeklappt in einer Zeile, ±15 s in der großen Pause; TS-03 (Vorwert) auf sehr schmalen Bildschirmen in einer zweiten Zeile (D-380); NU-02 und NU-03 (Tagesübersicht und Mahlzeiten) aufgeklappt zweispaltig, links Ring und Makros, rechts Mahlzeiten und Wasser (D-381); TH-06 und TS-18 (Kennzahlen und Kalorienschätzung im Fortschritt): Erklärung unter den Kacheln, Kacheln gleich hoch (D-382).
+- Version 0.37 (Phase iPhone Duo, Phase 2, 26.10.2026): TS-02 (Übungsliste) aufgeklappt zweispaltig mit der Steuerung rechts und neu „Als Nächstes“; TS-07 und TS-09 (Pause mit nächstem Satz) zugeklappt in einer Zeile, ±15 s in der großen Pause; TS-03 (Vorwert) auf sehr schmalen Bildschirmen in einer zweiten Zeile (D-380); NU-02 und NU-03 (Tagesübersicht und Mahlzeiten) aufgeklappt zweispaltig, links Ring und Makros, rechts Mahlzeiten und Wasser (D-381); TH-06 und TS-18 (Kennzahlen und Kalorienschätzung im Fortschritt): Erklärung unter den Kacheln, Kacheln gleich hoch (D-382); TS-07 und TS-09 aufgeklappt mit dem nächsten Satz in bis zu vier Zeilen (D-383).
 - Version 0.36 (Phase iPhone Duo, 25.10.2026): Prüfung aller Screens in drei Breiten und Bewertung der Layout-Verbesserungen, ohne Änderung an Funktionen (D-379); TH-03 (Trainingskalender) bleibt „später“.
 - Version 0.35 (Phase iPhone Duo, 25.10.2026): TS-04 mit lesbaren Werten ab fünf Zeichen in schmalen Satzzeilen (zugeklappt, 375 bis 390 pt); bei 360 und 320 pt bleibt es eng (D-378).
 - Version 0.34 (Phase iPhone Duo, 25.10.2026): Weitere Funde der Prüfung in drei Breiten (D-377): AH-03 und die Auswertung „Je Aufgabe“, NU-02 (Einträge) und BP-01 (Gewichtseinträge) mit Namen aus dem sichtbaren Text, Nebenzeilen als Beschreibung (WCAG 2.5.3, Audit D-08); NU-05 mit lesbarer Mahlzeit-Auswahl zwischen 640 und 767 px; NU-26 mit „Meine Küche“ ganz über der Tab-Leiste; Kopf im Training bis an den Fensterrand; Pause mit sichtbarem Minus und Plus auch schmal; Wochentage im Kalender 11 px.

diff --git a/docs/testing.md b/docs/testing.md
@@ -1741,3 +1741,20 @@ Vier gleich hohe Kacheln, die Zahlen auf einer Linie, die Erklärung darunter (D
 | `pnpm lint`, `pnpm typecheck`, `pnpm format:check` | ohne Befund (ein Zwischenstand: Lint meldete eine vorübergehende Hilfsdatei für Playwright im Wurzelordner; sie liegt nicht im Repository) |
 | `pnpm build`, `pnpm check:bundle` | Startansicht 235,7 KB von 250 KB |
 | `pnpm test:e2e` (Chromium, alle Dateien) | 371 bestanden, 85 übersprungen, 0 fehlgeschlagen, 14,3 min |
+
+### Phase iPhone Duo, Phase 2: Abschluss, Bilder in drei Breiten · 26.10.2026, Cloud-Umgebung (Node 22.22, Chromium 1243)
+
+Bilder erneuert, nächster Satz in der rechten Spalte des Players bis zu vier Zeilen, Liste für den Gerätetest ergänzt, Abschlussbericht (D-383). Bericht: `form-duo-report.md` Abschnitte 4.4, 6, 9 und 10. Browser-Fenster, nicht das Gerät.
+
+| Nachweis | Ergebnis |
+|---|---|
+| `node tools/duo-screens.mjs`, erster Lauf nach Paket 3 (4 min) | 84 Ansichten: 3 × Schrift unter 11 px (Tageszahl im Kalender, bewusst nach D-334), 7 Hinweise Tippfläche (Wochentag-Chips); kein Überlauf, nichts unter dem Systemrand, keine Überlagerung, kein abgeschnittener Text, kein gestauchtes Symbol, axe ohne Verstöße. Beim Ansehen der Bilder: In der rechten Spalte des Players stand vom nächsten Satz nur „Beinpresse,…“ |
+| `node tools/duo-screens.mjs` nach der Korrektur | 84 Ansichten, dieselben Befunde; Bilder zusammen 3,4 MB |
+| Rechte Spalte (Chromium, aufgeklappt, Pause läuft) | „Nächster Satz: Beinpresse, Arbeitssatz 2 · Ziel 8–12“ ganz zu sehen, in vier Zeilen |
+| Geänderte Bilder gegenüber Phase 1 | Player zugeklappt und aufgeklappt, „Training verwerfen“ aufgeklappt, Ernährung und „Meine Küche“ aufgeklappt, Fortschritt in drei Breiten; dazu „Heute“, Wasser, Wasser-Verlauf und Tab-Leiste, weil diesmal beide Wasser-Tipps der Testdaten ankamen (750 statt 250 ml), und ein einzelnes Pixel im Scanner aufgeklappt |
+| CI, Lauf 40292622372 (`a94434a`, Paket 2 mit dem Nachtrag zu D-380) | alle vier Jobs grün; WebKit 350 bestanden, 104 übersprungen |
+| CI, Lauf 40295195644 (`3a80d2e`, Paket 3) | alle vier Jobs grün; Chromium 371 bestanden, 85 übersprungen; WebKit 351 bestanden, 105 übersprungen |
+| `pnpm test` | 124 Dateien, 1085 Tests bestanden |
+| `pnpm lint`, `pnpm typecheck`, `pnpm format:check` | ohne Befund |
+| `pnpm build`, `pnpm check:bundle` | Startansicht 235,7 KB von 250 KB |
+| `pnpm test:e2e` (Chromium, alle Dateien) | 371 bestanden, 85 übersprungen, 0 fehlgeschlagen, 14,6 min |
